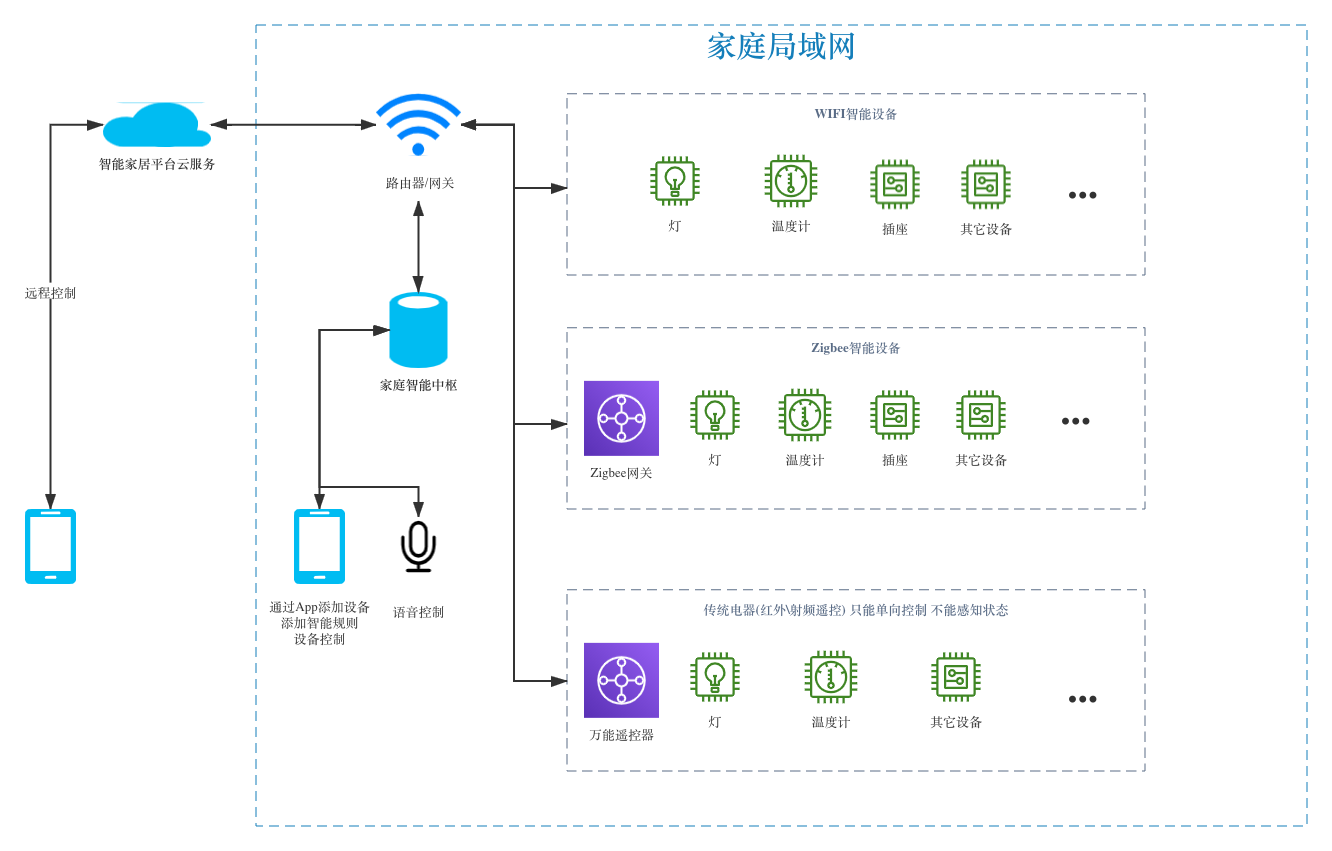
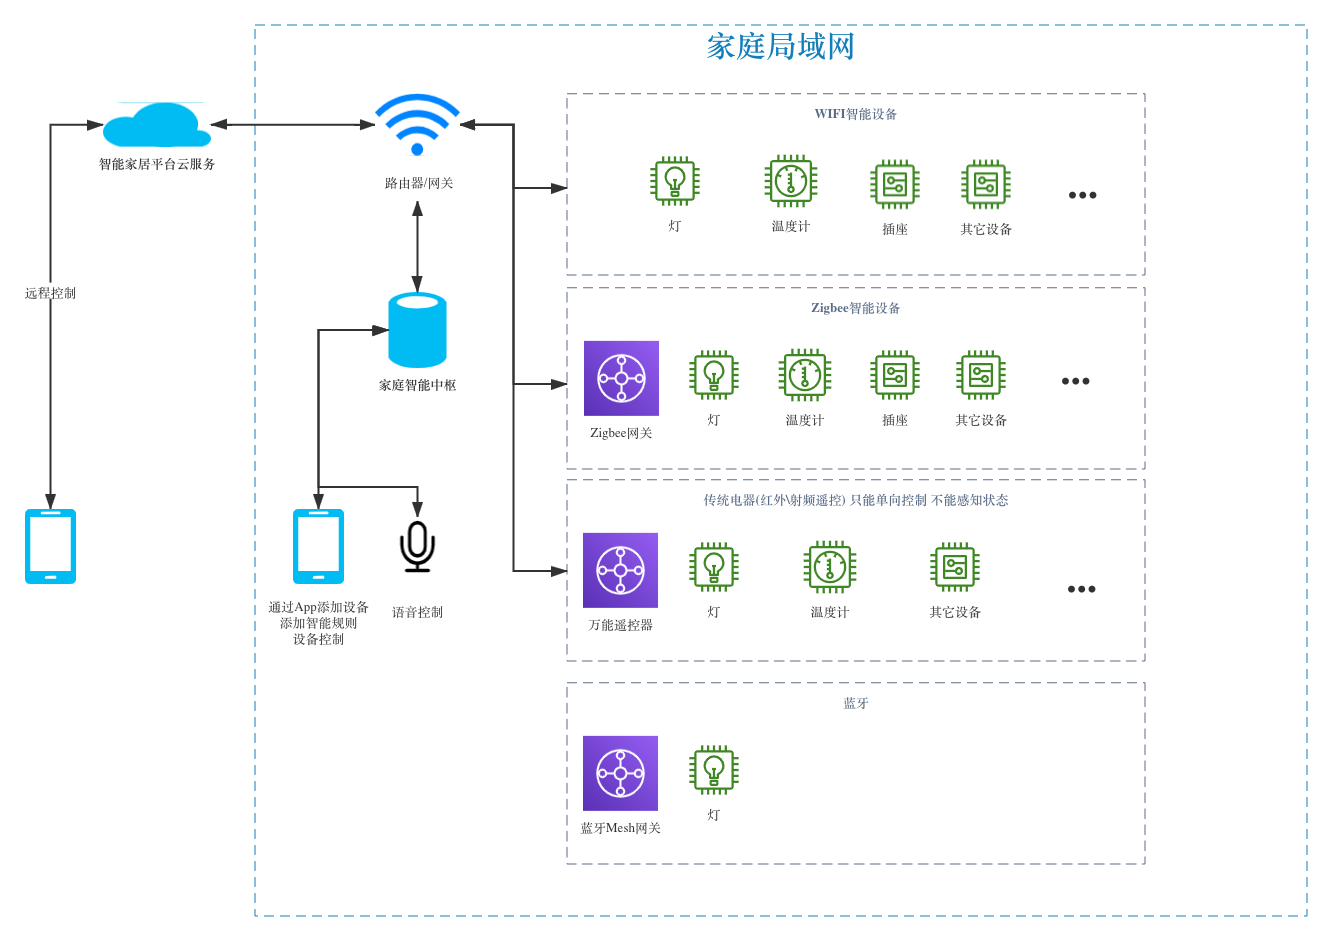
update arch png

diff --git a/README.md b/README.md
@@ -36,8 +36,43 @@
 ## 方案设计
 ### 智能家居总体架构
 ![总体架构图](https://github.com/kuang1987/smart-home-building-notes/blob/master/images/arch.png)
-### 通讯协议
+### 设备分类
+#### 按照功能
+|分类|设备|功能|
+|---|---|---|
+|家庭中枢|小爱音箱<br>HomePod<br>Apple TV<br>iPad<br>等等|主要用于远程控制。有些中枢会集成网关功能，比如小爱音箱pro自带了蓝牙Mesh网关和万能红外遥控功能|
+|网关|小米多模网关<br>aqara Zigbee网关<br>其它品牌网关|主要是通讯协议转换|
+|传感器|人体传感器<br>门窗传感器<br>温湿度传感器<br>烟雾传感器<br>等等|主要感知外界信息|
+|控制器|智能灯<br>墙壁开关<br>窗帘电机<br>红外遥控器<br>等等||
+
+#### 按照通信协议
+|分类|优势|劣势|
+|---|---|---|
+|WiFi|便于连接，无需网关|信号受距离和房间结构影响较大|
+|Zigbee|物联网主流协议，信号好|需要网关|
+|蓝牙Mesh|主要用于智能灯具分组|传输距离短|
+|红外/射频|控制传统电器|不能感知状态，只能单向控制|
+
 ### 灯光控制
+|方案|优势|劣势|
+|---|---|---|
+|替换原开关为智能墙壁开关|无需换灯，价格相对便宜|开关造型可能与原装修不搭，需要替换原开关|
+|更换智能灯具|灯具灵活分组，亮度色温可调|成本较高。成品灯具像吊灯、落地灯、吸顶灯造型较少。智能灯泡只有常规螺口。|
+
 ### 窗帘控制
+|方案|优势|劣势|
+|---|---|---|
+|智能窗帘电机|安装简单。支持开关到某个位置，支持手动轻拉后自动开关|价格高、多数电机需要预置插座。锂电池版成本高|
+|遥控窗帘点击|成本低|需要预留插座、使用红外/射频控制、难以实现开关某个位置|
+
+\* Tips： 如果想节省成本，在有主帘和纱帘的情况下，可以只安装一条电动轨道，然后用魔术贴连接主帘和纱帘。
+
 ### 传统电器控制
+主要通过红外遥控和射频遥控进行控制，无法感知被控制设备的状态。
+\* Tips: 小爱同学pro和小米的万能遥控器本身只支持红外遥控，但可以通过加装射频板或者外界射频发射器实现对射频以及其他遥控的支持。
+
+
+
 ### 空调控制
+对于常规空调，使用红外遥控。
+对于重要空调，aqara和其它品牌有专门的VRF智能控制器，可接入智能家居系统，控制全屋内机。但是价格较贵。
